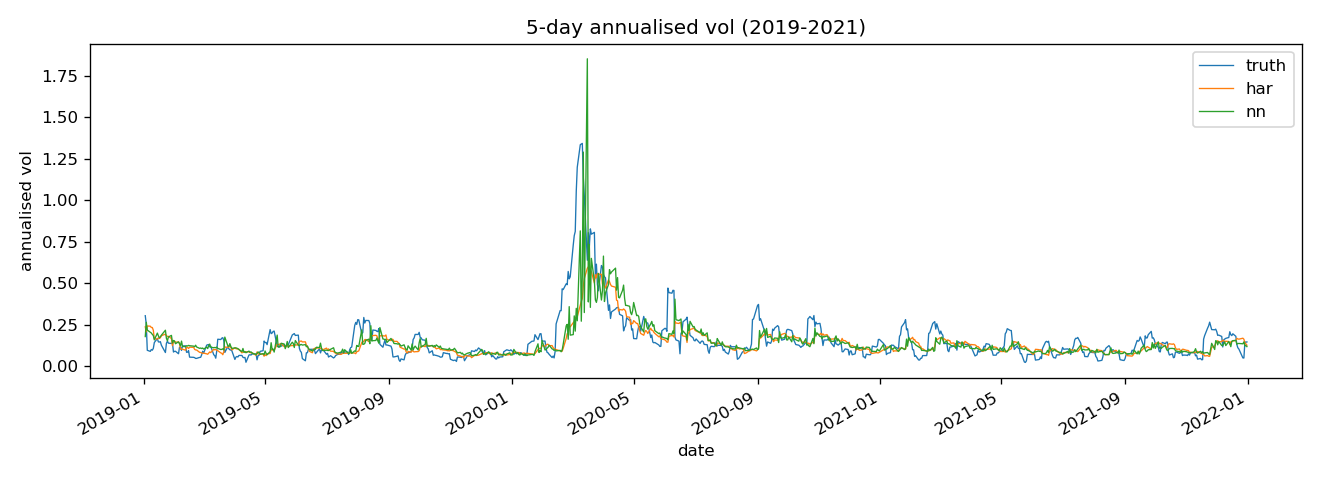
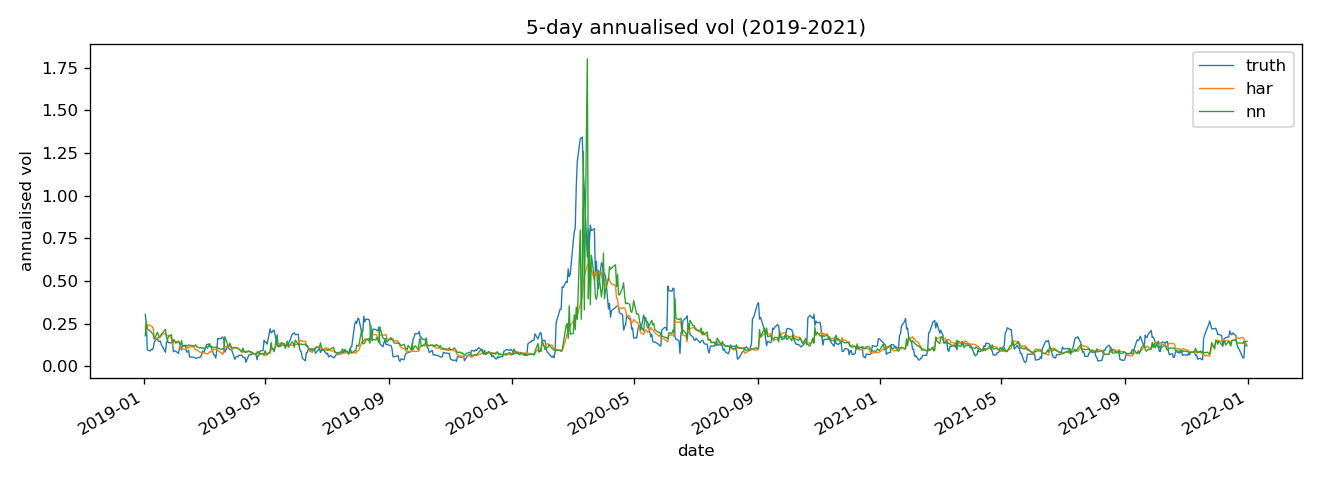
Fix evaluation: purge horizon leakage, stabilise naive, align GARCH

diff --git a/main.py b/main.py
@@ -1,4 +1,5 @@
 import numpy as np
+import pandas as pd
 import os
 import matplotlib.pyplot as plt
 from src.data import download_prices, build_panel
@@ -7,7 +8,7 @@ from src.evaluate import walk_forward, rmse, qlike, qlike_loss, diebold_mariano
 os.makedirs('images', exist_ok=True)
 
 def main():
-    prices = download_prices('SPY', start = '2005-01-01')
+    prices = download_prices('SPY', start = '2005-01-01', end = "2026-06-01")
     panel = build_panel(prices)
     X, Y = assemble(panel, horizons = (1, 5))
     returns = panel['ret']
@@ -15,6 +16,17 @@ def main():
     for H in (1,5):
         print(f"\n===== horizon: {H} day =====")
         res = walk_forward(X, Y, returns, H, initial_train=750, step=252).dropna()
+        naive_losses = qlike_loss(res['naive'], res['truth'])
+
+        diagnostic = pd.DataFrame({
+            'naive_log_vol': res['naive'],
+            'truth_log_vol': res['truth'],
+            'naive_vol': np.exp(res['naive']),
+            'truth_vol': np.exp(res['truth']),
+            'qlike_loss': naive_losses,
+        })
+
+        print(diagnostic.nlargest(10, 'qlike_loss'))
         truth = res['truth']
 
         # scores

diff --git a/src/evaluate.py b/src/evaluate.py
@@ -34,8 +34,9 @@ def walk_forward(X, Y, returns, horizon, initial_train = 750, step = 252) -> pd.
     preds = {'naive': [], 'ewma': [], 'har': [], 'nn': [], 'garch': []}
     truths = []
     for start in range(initial_train, len(X), step):
-        X_train = X.iloc[:start]
-        y_train = Y[target_col].iloc[:start]
+        train_stop = start - horizon + 1
+        X_train = X.iloc[:train_stop]
+        y_train = Y[target_col].iloc[:train_stop]
         X_test = X.iloc[start:start + step]
         if len(X_test) == 0:
             break
@@ -43,8 +44,8 @@ def walk_forward(X, Y, returns, horizon, initial_train = 750, step = 252) -> pd.
         preds['ewma'].append(ewma_forecast(X_test))
         preds['har'].append(har_forecast(X_train, y_train, X_test))
         preds['nn'].append(nn_forecast(X_train, y_train, X_test))
-        train_end = X.index[start - 1]
-        g = garch_forecast(returns, train_end, horizon)
+        forecast_start = X.index[start]
+        g = garch_forecast(returns, forecast_start, horizon)
         preds['garch'].append(g.reindex(X_test.index))
         truths.append(Y[target_col].iloc[start:start + step])
     out = {m: pd.concat(parts) for m, parts in preds.items()}

diff --git a/src/baselines.py b/src/baselines.py
@@ -6,7 +6,7 @@ from arch import arch_model
 HAR_COLS = ['log_rv_1', 'log_rv_5', 'log_rv_22']
 
 def naive_forecast(X: pd.DataFrame, horizon: int) -> pd.Series:
-    return X[f'log_rv_{horizon}'].rename(f'naive_{horizon}')
+    return X['log_rv_5'].rename(f'naive_{horizon}')
 
 def ewma_forecast(X: pd.DataFrame) -> pd.Series:
     return X['log_ewma'].rename('ewma')